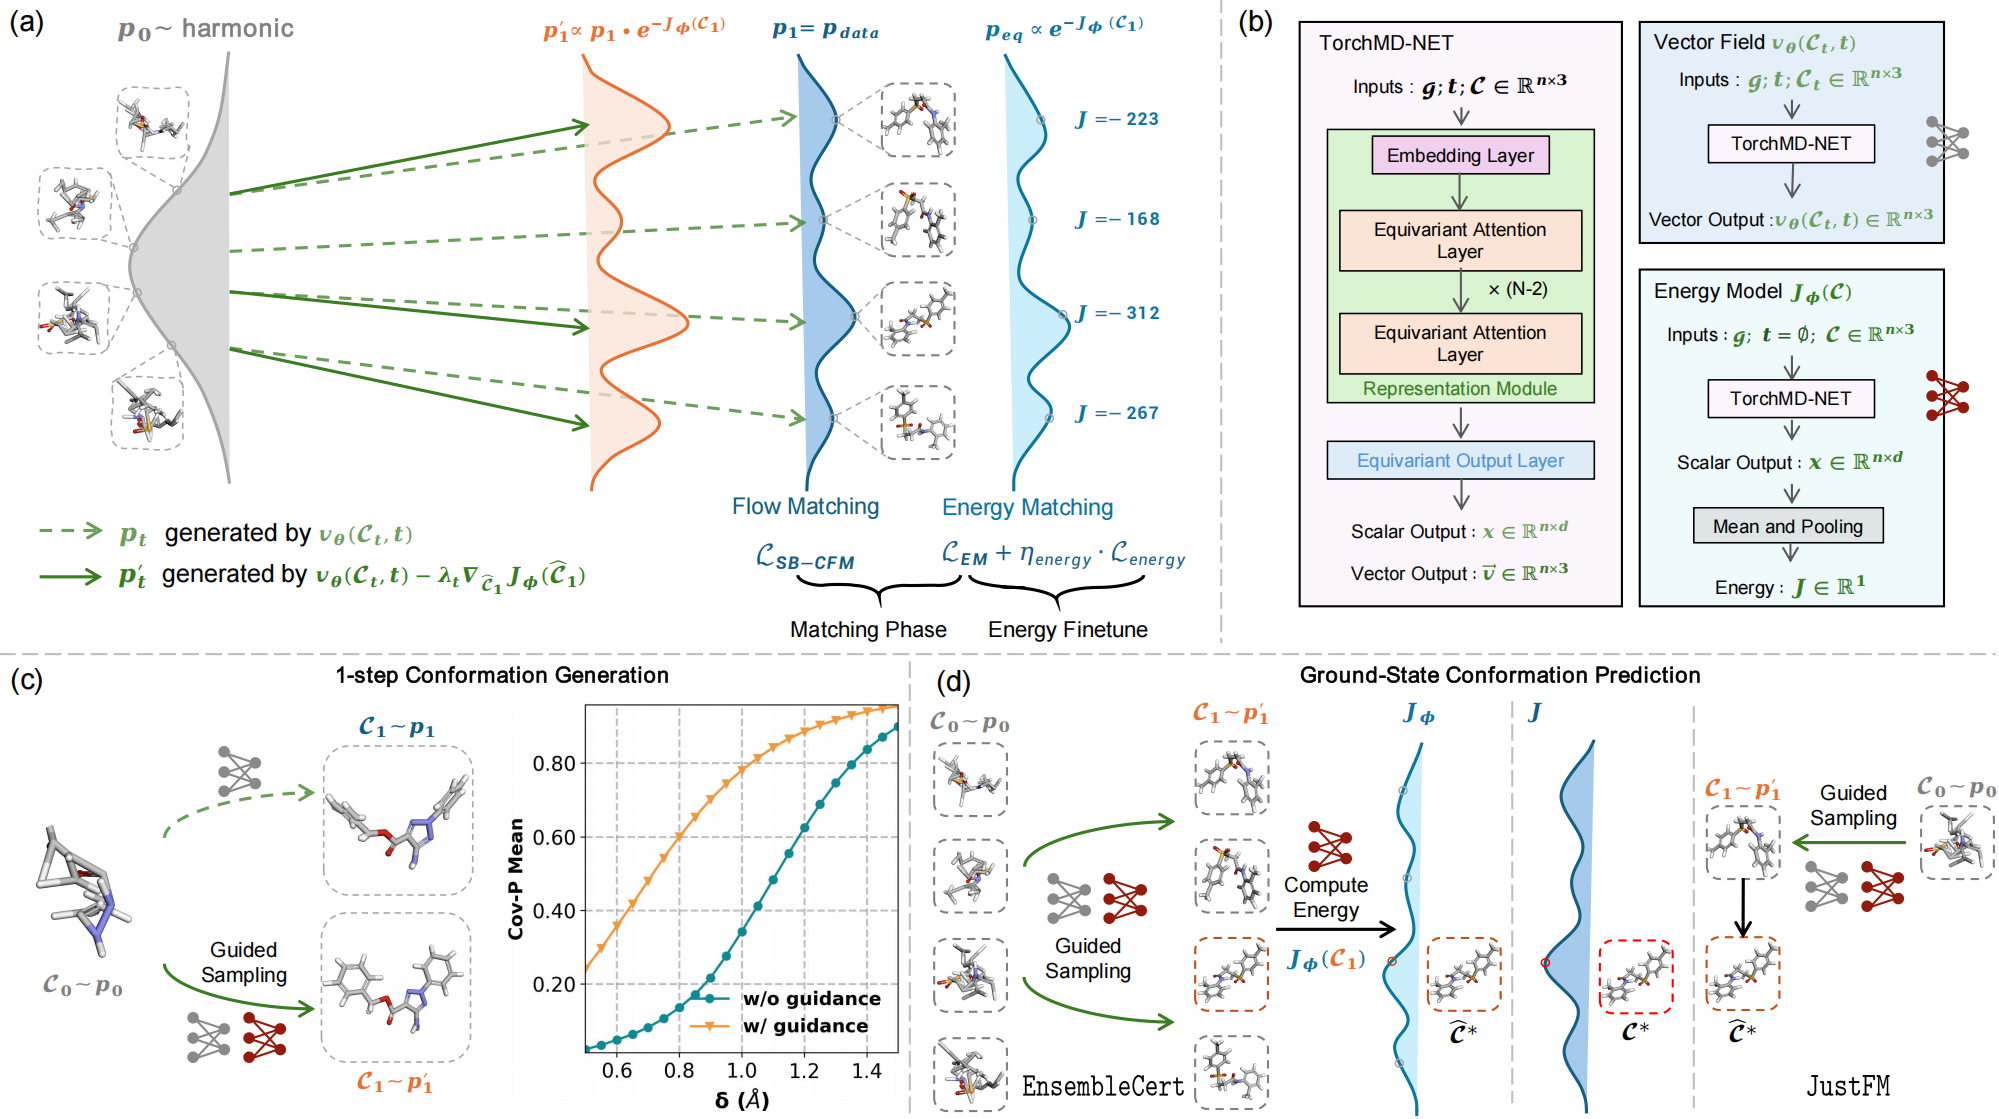
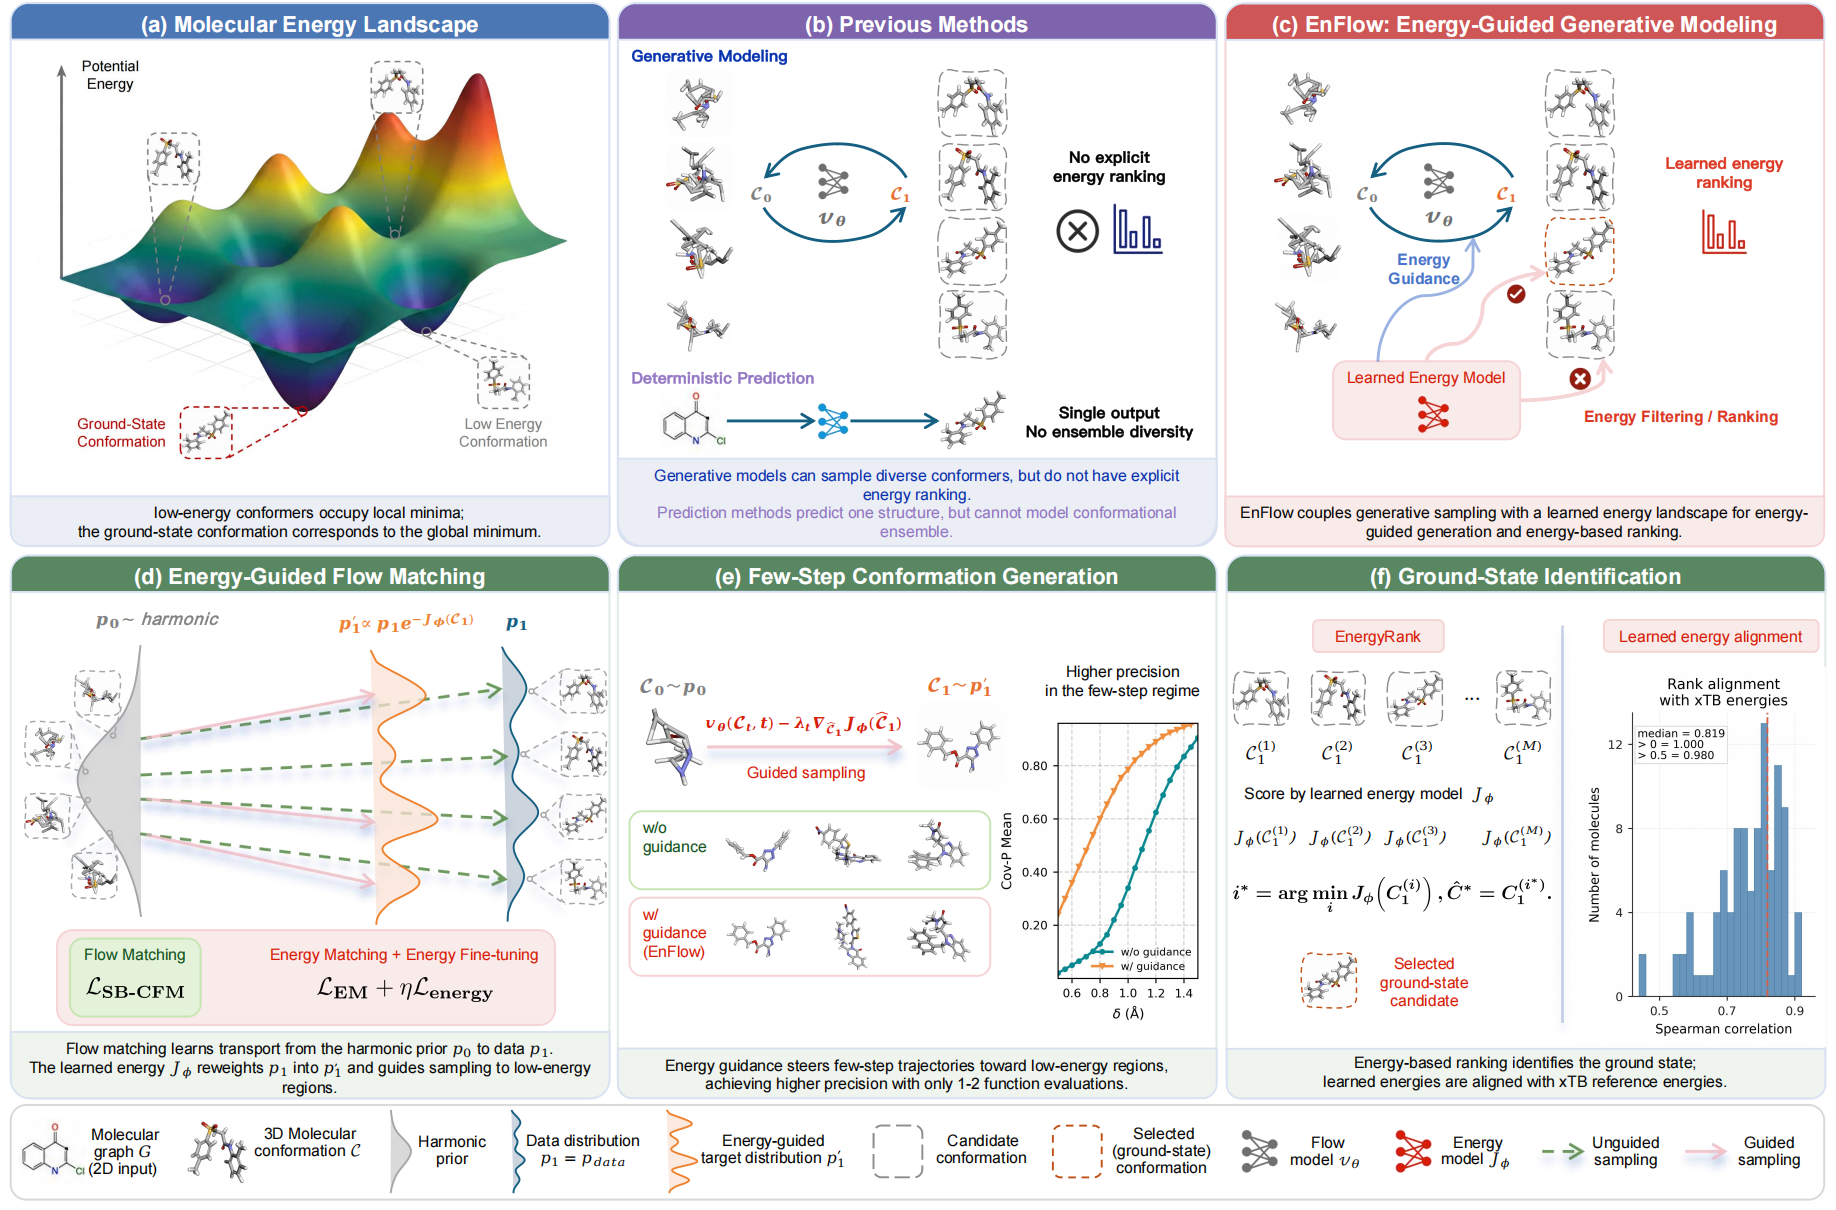
Update EnFlow arXiv v2 information

diff --git a/_publications/2025/EnFlow.md b/_publications/2025/EnFlow.md
@@ -1,5 +1,5 @@
 ---
-title:          "Energy-Guided Flow Matching Enables Few-Step Conformer Generation and Ground-State Identification"
+title:          "Energy-Guided Generative Modeling for Low-Energy Molecular Structure Discovery"
 date:           2025-12-27
 selected:       true
 # pub:            " "
@@ -9,7 +9,7 @@ pub_last:       '<span class="badge badge-pill badge-publication badge-success">
 pub_date:       "2025-12"
 
 abstract: >-
-  Generating low-energy conformer ensembles and identifying ground-state conformations from molecular graphs remain computationally demanding with physics-based pipelines. Current learning-based approaches often suffer from a fragmented paradigm: generative models capture diversity but lack reliable energy calibration, whereas deterministic predictors target a single structure and fail to represent ensemble variability. Here we present EnFlow, a unified framework that couples flow matching (FM) with an explicitly learned energy model through an energy-guided sampling scheme defined along a non-Gaussian FM path. By incorporating energy-gradient guidance during sampling, our method steers trajectories toward lower-energy regions, substantially improving conformational fidelity, particularly in the few-step regime. The learned energy function further enables efficient energy-based ranking of generated ensembles for accurate ground-state identification. Extensive experiments on GEOM-QM9 and GEOM-Drugs demonstrate that EnFlow simultaneously improves generation metrics with 1--2 ODE-steps and reduces ground-state prediction errors compared with state-of-the-art methods.
+  Exploring molecular energy landscapes and identifying ground-state conformations are central challenges in computational chemistry. However, generating diverse low-energy conformers from molecular graphs remains expensive with traditional physics-based pipelines. Existing learning-based approaches remain fragmented: generative models capture conformational diversity but often lack reliable energy calibration, whereas deterministic predictors focus on a single structure and fail to represent ensemble variability. Here we introduce EnFlow, to our knowledge, the first energy-guided generative framework that couples flow-based conformer generation with explicit energy landscape modeling for joint conformational ensemble generation and ground-state identification. By integrating generative dynamics with a learned energy model, EnFlow guides sampling toward low-energy regions of the conformational landscape, improving structural fidelity under extremely few sampling steps while enabling energy-based ranking of generated conformations. Experiments on GEOM-QM9 and GEOM-Drugs show that EnFlow achieves strong performance in conformer generation and ground-state identification while requiring only 1--2 ODE sampling steps. Single-point GFN2-xTB evaluations further show that the learned energy scores preserve physically meaningful energetic rankings of generated conformations. These results support explicit energy landscape modeling as an effective strategy for low-energy molecular structure discovery through joint modeling of conformational ensembles and their associated energies.
   
 cover: assets/images/covers/enflow/EnFlow.png
 # second_image:
@@ -17,6 +17,7 @@ cover: assets/images/covers/enflow/EnFlow.png
 authors:
   - Guikun Xu
   - Xiaohan Yi
+  - Ziqiao Meng
   - Peilin Zhao#
   - Yatao Bian#
   
